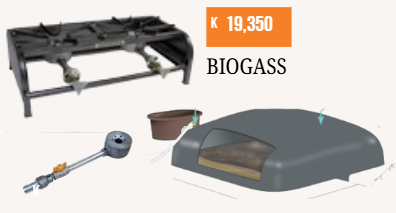
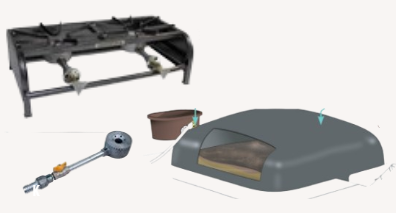
updated messaging

Changed region(s): [[0.5152, 0.0282, 0.7576, 0.2254], [0.5152, 0.2535, 0.7273, 0.3662]]

diff --git a/index.html b/index.html
@@ -410,8 +410,10 @@ footer .foot-copy{color:rgba(255,255,255,0.3);font-size:0.72rem;}
   <div class="hero-content">
     <div class="hero-text">
       <div class="hero-badge">Zambia Technology Roadshow 2025</div>
-      <h1 class="hero-title">Press Locally,<span class="accent">Earn More.</span></h1>
-      <p class="hero-sub">Agri-processing, cold chain, and workshop machines engineered for Zambian farmers and rural entrepreneurs. Click any machine to explore images and full specifications.</p>
+      <h1 class="hero-title">Supporting,<span class="accent">Rural Enterprises.</span></h1>
+      <p class="hero-sub">Bridging the energy gap with high-efficiency machinery for Zambian entrepreneurs. Whether it’s preserving your harvest with cold chain tech or building the future in a solar-powered welding shop, we provide the tools to increase your productivity.
+
+Explore our range of machines and full specifications below.</p>
       <div class="hero-actions">
         <a href="#catalog" class="btn-primary">🔍 Browse All Technologies</a>
         <a href="#contact" class="btn-outline">Request a Demo</a>
